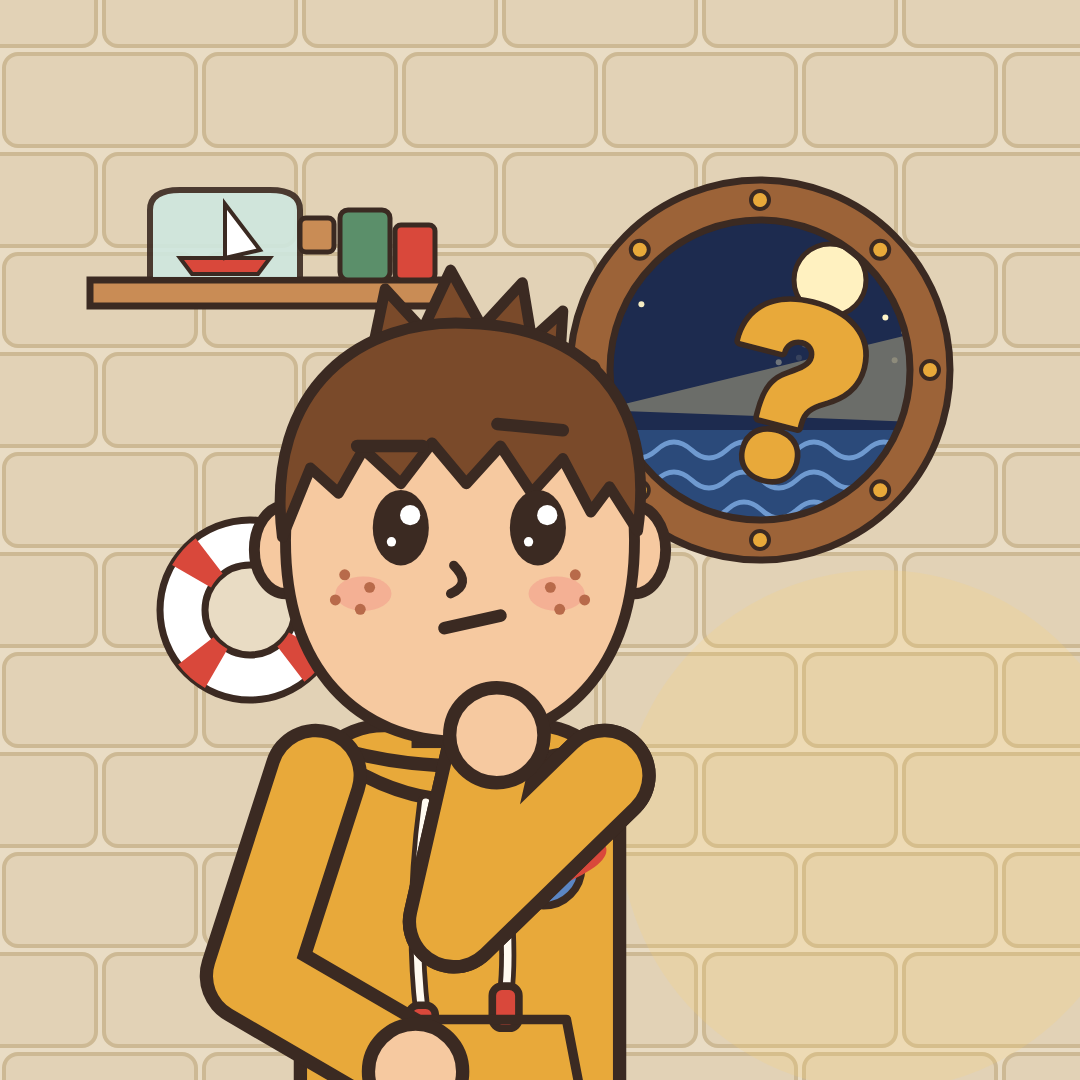
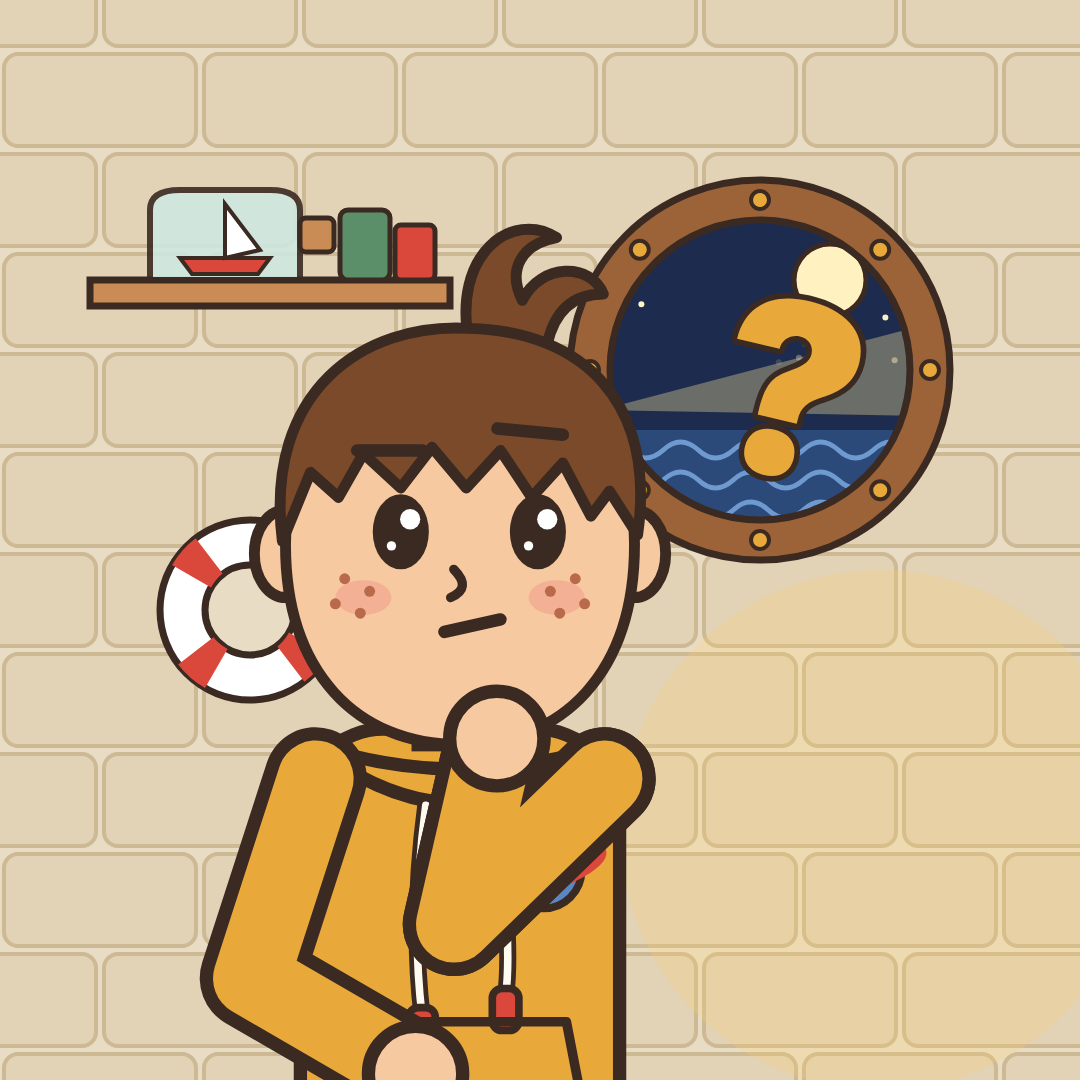
Shnurok: back to the original tuft; eight accessory options
Claude-Session: https://claude.ai/code/session_01FMPcn1gTY6X1SxnGQfzkF6

diff --git a/videos/dvazhdy/src/cartoon/parts.tsx b/videos/dvazhdy/src/cartoon/parts.tsx
@@ -198,6 +198,7 @@ export type CharProps = {
 	headDrop?: number; // move head down toward shoulders
 	armROver?: boolean; // draw right arm in front of the head (hand on head)
 	hairColor?: string;
+	acc?: 'phones' | 'phonesNeck' | 'goggles' | 'bow' | 'tipped' | 'pencil' | 'star' | 'bandaid';
 	foreR?: number; // right forearm length multiplier
 	freckles?: boolean;
 	hoodie?: boolean; // hood + drawstrings + pocket instead of shirt collar and buttons
@@ -240,6 +241,7 @@ export const Char: React.FC<CharProps> = (p) => {
 		headDrop = 0,
 		armROver = false,
 		hairColor,
+		acc,
 		foreR = 1,
 		freckles = false,
 		hoodie = false,
@@ -350,7 +352,7 @@ export const Char: React.FC<CharProps> = (p) => {
 					{hair === 'boy' && <path d="M -114 -4 C -124 -96 -64 -138 0 -136 C 64 -138 124 -96 114 -4 L 80 -40 L 50 -20 L 20 -44 L -14 -22 L -44 -44 L -76 -22 Z" fill={hairCol} stroke={OL} strokeWidth={OW} strokeLinejoin="round" />}
 					{hair === 'lyokha' && (
 						<g>
-							<path d="M -56 -122 L -48 -160 L -24 -134 L -6 -172 L 14 -136 L 40 -164 L 46 -128 L 66 -146 L 64 -114 Z" fill={hairCol} stroke={OL} strokeWidth={OW} strokeLinejoin="round" />
+							<path d="M 6 -128 C -6 -186 34 -214 62 -196 C 40 -192 30 -176 40 -156 C 52 -180 84 -180 92 -160 C 70 -160 60 -146 56 -128 Z" fill={hairCol} stroke={OL} strokeWidth={OW} strokeLinejoin="round" />
 							<path d="M -114 -2 C -126 -98 -62 -142 6 -138 C 80 -136 126 -90 114 -6 L 96 -34 L 84 -18 L 66 -52 L 46 -30 L 26 -60 L 4 -36 L -18 -62 L -38 -36 L -62 -58 L -78 -30 L -96 -46 Z" fill={hairCol} stroke={OL} strokeWidth={OW} strokeLinejoin="round" />
 						</g>
 					)}
@@ -444,6 +446,63 @@ export const Char: React.FC<CharProps> = (p) => {
 						</g>
 					)}
 					{hair === 'boss' && <path d="M -112 -10 C -116 -70 -96 -110 -60 -118 C -50 -96 -90 -70 -108 -10 Z M 112 -10 C 116 -70 96 -110 60 -118 C 50 -96 90 -70 108 -10 Z" fill={hairCol} stroke={OL} strokeWidth={OW} />}
+					{acc === 'tipped' && (
+						<path d="M 16 -170 C 14 -192 34 -214 62 -196 C 40 -192 30 -180 32 -168 Z M 52 -168 C 62 -182 84 -180 92 -160 C 74 -160 64 -154 60 -146 Z" fill={C.ochre} stroke={OL} strokeWidth={5} strokeLinejoin="round" />
+					)}
+					{acc === 'bow' && (
+						<g transform="translate(30 -150) rotate(-10)">
+							<path d="M 0 0 L -34 -18 L -30 18 Z M 0 0 L 34 -18 L 30 18 Z" fill={C.red} stroke={OL} strokeWidth={5} strokeLinejoin="round" />
+							<circle r={9} fill={C.red} stroke={OL} strokeWidth={5} />
+							<path d="M -4 8 Q -12 40 -2 56 M 4 8 Q 14 36 8 60" fill="none" stroke={OL} strokeWidth={9} strokeLinecap="round" />
+							<path d="M -4 8 Q -12 40 -2 56 M 4 8 Q 14 36 8 60" fill="none" stroke={C.white} strokeWidth={4} strokeLinecap="round" />
+						</g>
+					)}
+					{acc === 'star' && (
+						<path transform="translate(-70 -96) rotate(-12)" d="M 0 -26 L 8 -8 L 26 -8 L 12 4 L 18 24 L 0 12 L -18 24 L -12 4 L -26 -8 L -8 -8 Z" fill={C.ochre} stroke={OL} strokeWidth={5} strokeLinejoin="round" />
+					)}
+					{acc === 'pencil' && (
+						<g transform="translate(128 -6) rotate(-78)">
+							<rect x={-70} y={-9} width={120} height={18} fill={C.ochre} stroke={OL} strokeWidth={5} />
+							<rect x={-86} y={-9} width={18} height={18} fill="#f29b8a" stroke={OL} strokeWidth={5} />
+							<path d="M 50 -9 L 76 0 L 50 9 Z" fill="#f6c9a0" stroke={OL} strokeWidth={5} strokeLinejoin="round" />
+							<path d="M 68 -3 L 76 0 L 68 3 Z" fill={OL} />
+						</g>
+					)}
+					{acc === 'goggles' && (
+						<g>
+							<path d="M -116 -90 Q 0 -118 116 -90 L 116 -72 Q 0 -100 -116 -72 Z" fill="#3a3f55" stroke={OL} strokeWidth={6} />
+							{[-1, 1].map((k) => (
+								<g key={k} transform={`translate(${k * 44} -100)`}>
+									<ellipse rx={38} ry={28} fill="#c9963e" stroke={OL} strokeWidth={OW} />
+									<ellipse rx={26} ry={18} fill="#6fb4d0" stroke={OL} strokeWidth={5} />
+								</g>
+							))}
+						</g>
+					)}
+					{acc === 'phones' && (
+						<g>
+							<path d="M -122 -10 C -130 -170 130 -170 122 -10" fill="none" stroke={OL} strokeWidth={26} strokeLinecap="round" />
+							<path d="M -122 -10 C -130 -170 130 -170 122 -10" fill="none" stroke={C.red} strokeWidth={12} strokeLinecap="round" />
+							{[-1, 1].map((k) => (
+								<g key={k}>
+									<rect x={k * 122 - 26} y={-30} width={52} height={76} rx={22} fill={C.red} stroke={OL} strokeWidth={OW} />
+									<rect x={k * 122 - 12} y={-16} width={24} height={48} rx={10} fill="#3a3f55" />
+								</g>
+							))}
+						</g>
+					)}
+					{acc === 'phonesNeck' && (
+						<g>
+							<path d="M -110 150 C -110 220 110 220 110 150" fill="none" stroke={OL} strokeWidth={24} strokeLinecap="round" />
+							<path d="M -110 150 C -110 220 110 220 110 150" fill="none" stroke="#3a3f55" strokeWidth={10} strokeLinecap="round" />
+							{[-1, 1].map((k) => (
+								<g key={k}>
+									<ellipse cx={k * 110} cy={150} rx={36} ry={44} fill="#3a3f55" stroke={OL} strokeWidth={OW} />
+									<ellipse cx={k * 110} cy={150} rx={20} ry={26} fill={C.ochre} stroke={OL} strokeWidth={5} />
+								</g>
+							))}
+						</g>
+					)}
 					{/* cheeks */}
 					<ellipse cx={-62} cy={34} rx={18} ry={11} fill={C.cheek} opacity={0.55} />
 					<ellipse cx={62} cy={34} rx={18} ry={11} fill={C.cheek} opacity={0.55} />
@@ -472,6 +531,12 @@ export const Char: React.FC<CharProps> = (p) => {
 						</g>
 					)}
 					{nose && <ellipse cx={0} cy={22} rx={20} ry={16} fill={C.cheek} stroke={OL} strokeWidth={5} />}
+					{acc === 'bandaid' && (
+						<g transform="translate(70 26) rotate(-25)">
+							<rect x={-30} y={-11} width={60} height={22} rx={10} fill="#f2d2a8" stroke={OL} strokeWidth={5} />
+							<rect x={-10} y={-11} width={20} height={22} fill="#e8b888" stroke={OL} strokeWidth={4} />
+						</g>
+					)}
 					{mustache && <path d="M -46 40 Q -20 24 0 36 Q 20 24 46 40 Q 24 50 0 44 Q -24 50 -46 40 Z" fill={C.gray} stroke={OL} strokeWidth={5} />}
 					{(!beard || face === 'shock' || talk > 0) && <Mouth face={face} talk={talk} />}
 					{hair === 'old' && (

diff --git a/videos/dvazhdy/src/series/Shnurok.tsx b/videos/dvazhdy/src/series/Shnurok.tsx
@@ -5,7 +5,7 @@ import {C, Char, CharProps, OL, OW} from '../cartoon/parts';
 import {Room} from './Keeper';
 
 // Шнурок — главный герой канала «Вселенная Лёхи». Прозвище — по шнуркам на худи.
-// Торчащие прядки-ёжик на макушке, длинные шнурки худи с красными наконечниками, веснушки, охристое худи с нашивкой-планетой, синие джинсы.
+// Вихор-завиток на макушке, длинные шнурки худи с красными наконечниками, веснушки, охристое худи с нашивкой-планетой, синие джинсы.
 
 export const SHNUROK = {
 	hair: '#7a4a2a',
@@ -134,26 +134,33 @@ export const ShnurokSheet: React.FC = () => {
 	);
 };
 
-/** Hairstyle options side by side. */
+/** Look options on top of the original hair (tuft on top). */
 export const ShnurokHairOptions: React.FC = () => {
 	const t = useCurrentFrame() / 30;
-	const opts: [CharProps['hair'], string][] = [
-		['goggles', '9 · лётные очки'],
-		['capback', '10 · кепка назад'],
-		['phones', '11 · наушники'],
-		['tips', '12 · хохолок-огонёк'],
+	const opts: [CharProps['acc'], string][] = [
+		['phones', '1 · наушники'],
+		['phonesNeck', '2 · наушники на шее'],
+		['bow', '3 · вихор на шнурке'],
+		['tipped', '4 · рыжий кончик'],
+		['goggles', '5 · лётные очки'],
+		['pencil', '6 · карандаш за ухом'],
+		['star', '7 · заколка-звезда'],
+		['bandaid', '8 · пластырь на щеке'],
 	];
 	return (
 		<ShotCtx.Provider value={{t, dur: 1, scatter: 0}}>
 			<AbsoluteFill style={{background: C.wall}}>
 				<svg width={1080} height={1920} viewBox="0 0 1080 1920">
-					{opts.map(([h, l], i) => {
-						const x = 280 + (i % 2) * 520;
-						const y = 860 + Math.floor(i / 2) * 860;
+					{opts.map(([a, l], i) => {
+						const x = 270 + (i % 2) * 540;
+						const y = 440 + Math.floor(i / 2) * 470;
 						return (
 							<g key={l}>
-								<Shnurok x={x} y={y} s={0.95} hair={h} />
-								<text x={x} y={y + 70} textAnchor="middle" fontFamily="Inter" fontWeight={800} fontSize={40} fill={OL}>
+								<clipPath id={`cl${i}`}><rect x={x - 260} y={y - 420} width={520} height={400} /></clipPath>
+								<g clipPath={`url(#cl${i})`}>
+									<Shnurok x={x} y={y + 340} s={0.95} acc={a} />
+								</g>
+								<text x={x} y={y + 30} textAnchor="middle" fontFamily="Inter" fontWeight={800} fontSize={38} fill={OL}>
 									{l}
 								</text>
 							</g>

diff --git a/CLAUDE.md b/CLAUDE.md
@@ -51,7 +51,7 @@
 ## Персонажи (код: `videos/dvazhdy/src/cartoon/parts.tsx` → `Char`)
 
 - Голова-овал (не квадрат), простое лицо: крупные чёрные глаза-овалы с двумя бликами, румянец, маленький нос-крючок.
-- **Шнурок — главный герой канала «Вселенная Лёхи»** (код: `Shnurok` в `videos/dvazhdy/src/series/Shnurok.tsx`, лист: `videos/shnurok/sheet.png`, аватарка: `videos/shnurok/avatar.png`): молодой любопытный парень-рассказчик. Пропорции как у деда Савелия (`headS={0.82} bodyS={1.14} headDrop={18}`), каштановые волосы с короткими торчащими прядками-ёжиком на макушке (`hair="lyokha"`, `#7a4a2a`), веснушки, охристое худи `#e8a93a` с капюшоном, длинными белыми шнурками с красными наконечниками (отсюда прозвище) и нашивкой-планетой на груди, синие джинсы `#3d5a8a`. Фирменная поза — «думает» (`thinking`): рука у подбородка, бровь поднята, рядом жёлтый «?».
+- **Шнурок — главный герой канала «Вселенная Лёхи»** (код: `Shnurok` в `videos/dvazhdy/src/series/Shnurok.tsx`, лист: `videos/shnurok/sheet.png`, аватарка: `videos/shnurok/avatar.png`): молодой любопытный парень-рассказчик. Пропорции как у деда Савелия (`headS={0.82} bodyS={1.14} headDrop={18}`), каштановый вихор-завиток на макушке (`hair="lyokha"`, `#7a4a2a`), веснушки, охристое худи `#e8a93a` с капюшоном, длинными белыми шнурками с красными наконечниками (отсюда прозвище) и нашивкой-планетой на груди, синие джинсы `#3d5a8a`. Фирменная поза — «думает» (`thinking`): рука у подбородка, бровь поднята, рядом жёлтый «?».
 - **Дед Савелий, смотритель маяка:** `headS={0.82} bodyS={1.14} headDrop={18}`, `hair="old"`, короткая борода клинышком (`beard`), красный нос (`nose`), рыбацкая шляпа и дождевик `#f2c230`, синие брюки `#3d4a66`. Голову, бороду и пропорции НЕ менять — утверждены.
 - **Кот Барсик** (живой компас — всегда знает, где север и где дом): пухлый серо-голубой (`#8fa3bf`), белая грудка и лапки, зелёные глаза, полоски на лбу, красный морской платочек. Код: `Cat` в `videos/dvazhdy/src/series/Keeper.tsx`.
 - Новые персонажи — в той же манере (`Char` с другими волосами/одеждой), но со своими узнаваемыми деталями. Не копировать чужих персонажей и чужие ролики.
